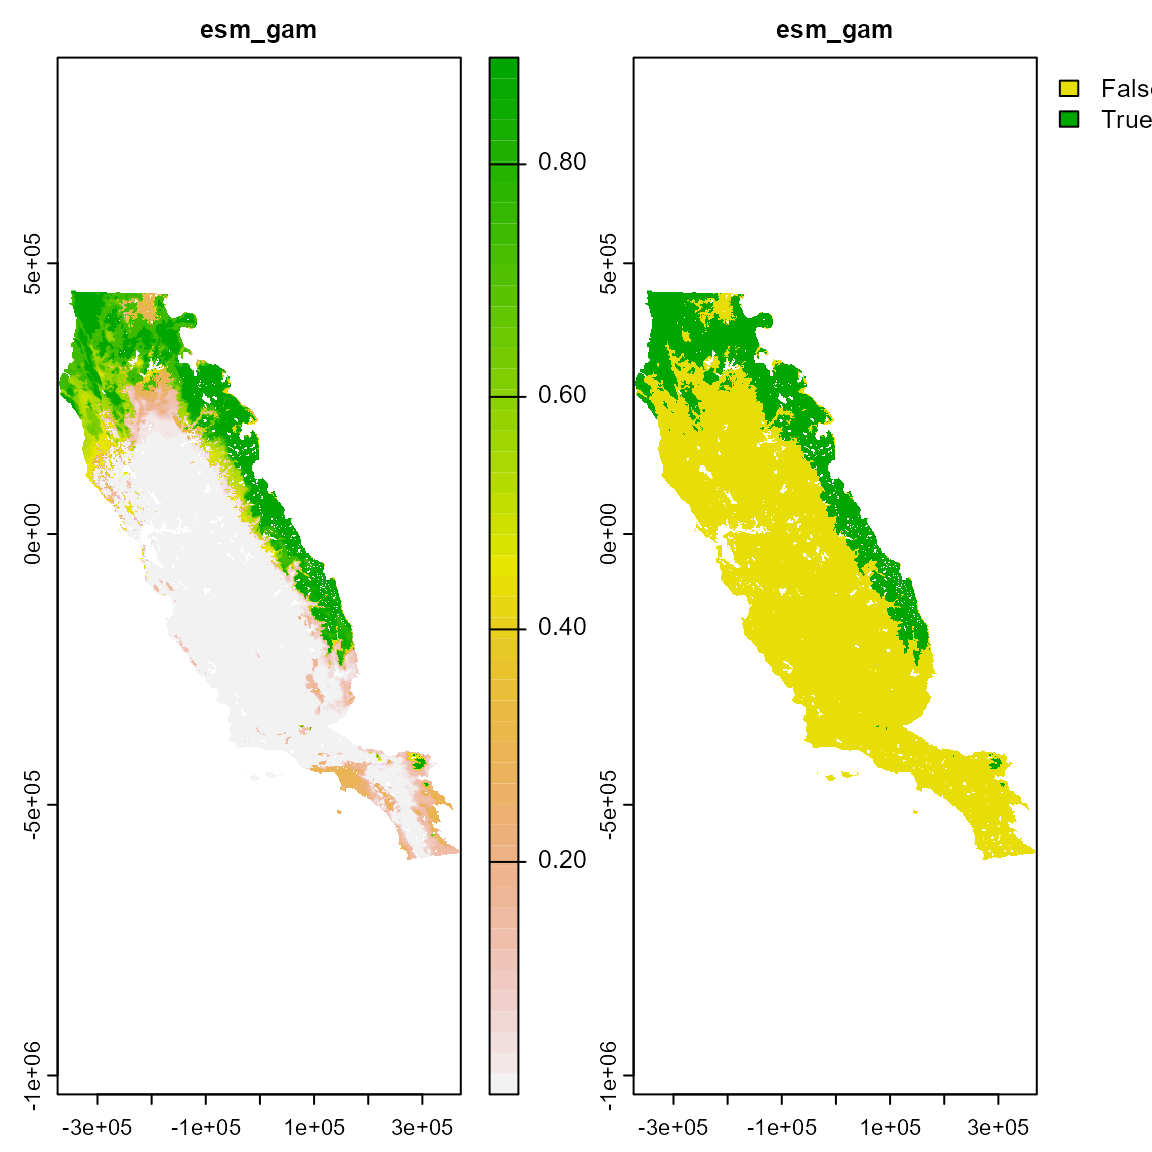
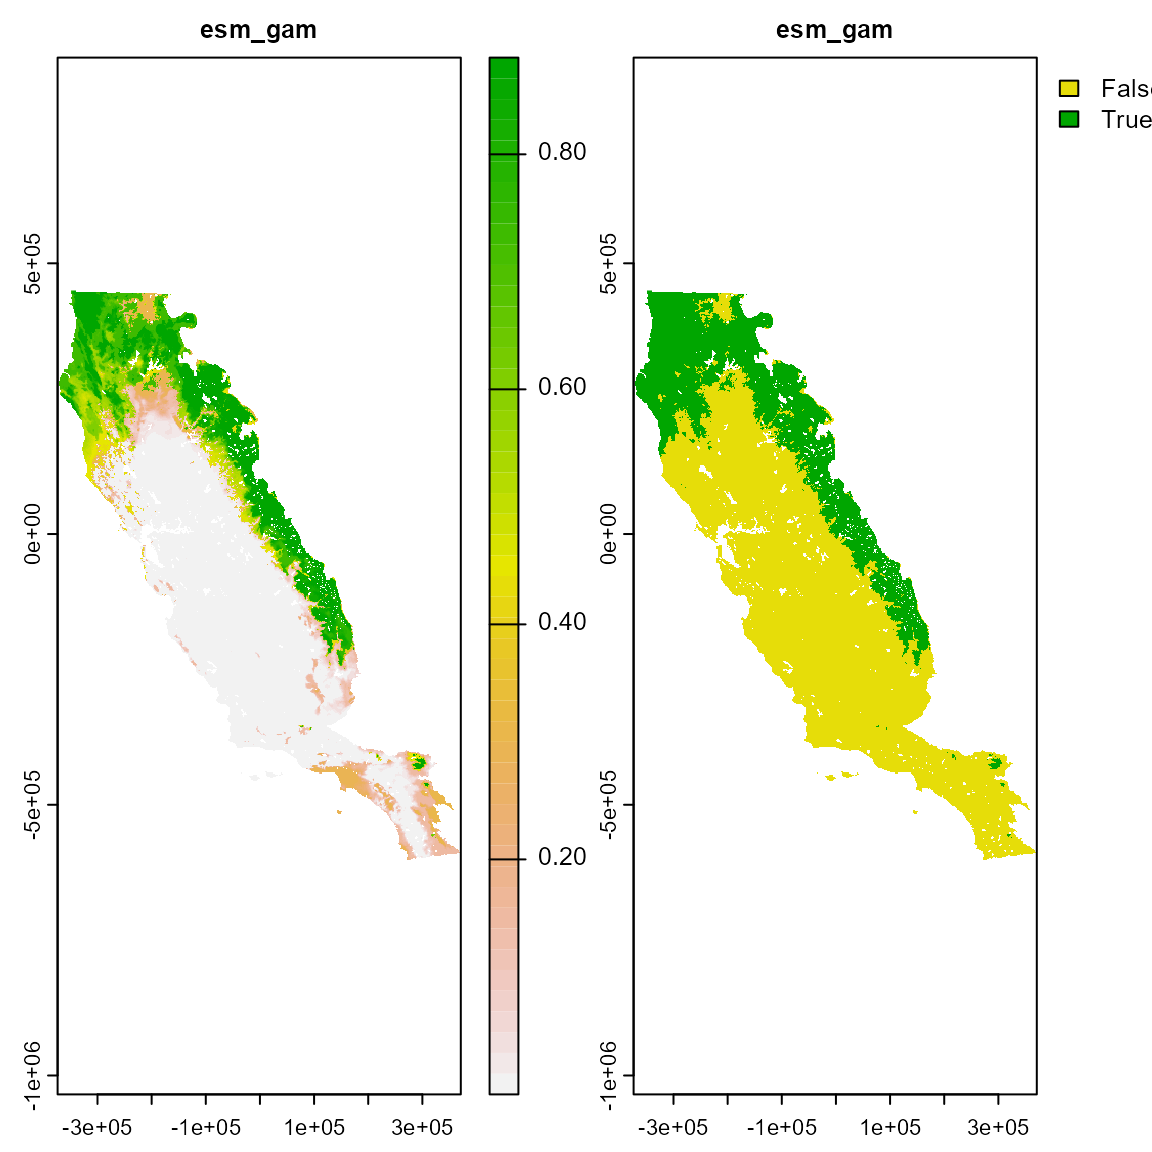
pkg website was updated

diff --git a/docs/articles/v02_modeling.html b/docs/articles/v02_modeling.html
@@ -301,7 +301,7 @@ for presence-absence and for background points datasets.</p>
 <span class="co">#&gt; $ awc      <span style="color: #949494; font-style: italic;">&lt;dbl&gt;</span> 0.10837019, 0.16000000, 0.00000000, 0.09719457, 0.00000000, 0~</span>
 <span class="co">#&gt; $ depth    <span style="color: #949494; font-style: italic;">&lt;dbl&gt;</span> 152.000000, 201.000000, 0.000000, 59.759930, 0.000000, 112.99~</span>
 <span class="co">#&gt; $ landform <span style="color: #949494; font-style: italic;">&lt;fct&gt;</span> 7, 11, 15, 14, 15, 15, 7, 15, 4, 10, 6, 10, 10, 15, 10, 11, 1~</span>
-<span class="co">#&gt; $ .part    <span style="color: #949494; font-style: italic;">&lt;int&gt;</span> 5, 3, 2, 4, 2, 5, 4, 1, 5, 4, 1, 4, 2, 5, 4, 5, 4, 4, 3, 2, 2~</span></code></pre></div>
+<span class="co">#&gt; $ .part    <span style="color: #949494; font-style: italic;">&lt;int&gt;</span> 1, 4, 2, 1, 4, 5, 1, 4, 3, 2, 4, 5, 1, 1, 2, 1, 2, 5, 2, 4, 2~</span></code></pre></div>
 <p>Now, in the abies2 object we have a new column called “.part” with
 the 5 k-folds (1, 2, 3, 4, 5), indicating which partition each record
 (row) is a member of. Next, we have to apply the same partition method
@@ -330,7 +330,7 @@ points.</p>
 <span class="co">#&gt; $ depth        <span style="color: #949494; font-style: italic;">&lt;dbl&gt;</span> 0.00000, 201.00000, 50.07409, 154.39426, 122.39575, 56.17~</span>
 <span class="co">#&gt; $ percent_clay <span style="color: #949494; font-style: italic;">&lt;dbl&gt;</span> 0.0000000, 0.4438345, 18.4111176, 46.9751244, 37.1873169,~</span>
 <span class="co">#&gt; $ landform     <span style="color: #949494; font-style: italic;">&lt;fct&gt;</span> 13, 10, 6, 6, 10, 14, 8, 14, 6, 7, 11, 14, 14, 10, 6, 6, ~</span>
-<span class="co">#&gt; $ .part        <span style="color: #949494; font-style: italic;">&lt;int&gt;</span> 1, 4, 4, 2, 3, 3, 3, 2, 5, 4, 2, 4, 3, 5, 2, 2, 2, 2, 5, ~</span></code></pre></div>
+<span class="co">#&gt; $ .part        <span style="color: #949494; font-style: italic;">&lt;int&gt;</span> 3, 3, 2, 4, 3, 1, 3, 4, 3, 3, 2, 2, 2, 5, 1, 1, 1, 4, 2, ~</span></code></pre></div>
 <p>In backg2 object we have a new column called “.part” with the 5
 k-folds (1, 2, 3, 4, 5).</p>
 <div class="section level3">
@@ -395,9 +395,9 @@ qualitative (f column names) variables use for modeling.</p>
 <span class="co">#&gt; <span style="color: #949494;"># A tibble: 3 x 25</span></span>
 <span class="co">#&gt;   model threshold      thr_value n_presences n_absences TPR_mean TPR_sd TNR_mean</span>
 <span class="co">#&gt;   <span style="color: #949494; font-style: italic;">&lt;chr&gt;</span> <span style="color: #949494; font-style: italic;">&lt;chr&gt;</span>              <span style="color: #949494; font-style: italic;">&lt;dbl&gt;</span>       <span style="color: #949494; font-style: italic;">&lt;int&gt;</span>      <span style="color: #949494; font-style: italic;">&lt;int&gt;</span>    <span style="color: #949494; font-style: italic;">&lt;dbl&gt;</span>  <span style="color: #949494; font-style: italic;">&lt;dbl&gt;</span>    <span style="color: #949494; font-style: italic;">&lt;dbl&gt;</span></span>
-<span class="co">#&gt; <span style="color: #BCBCBC;">1</span> max   equal_sens_sp~     0.590         700        700    0.664 0.035<span style="text-decoration: underline;">4</span>    0.664</span>
-<span class="co">#&gt; <span style="color: #BCBCBC;">2</span> max   max_sens_spec      0.564         700        700    0.87  0.031<span style="text-decoration: underline;">3</span>    0.543</span>
-<span class="co">#&gt; <span style="color: #BCBCBC;">3</span> max   max_sorensen       0.529         700        700    0.93  0.045<span style="text-decoration: underline;">6</span>    0.467</span>
+<span class="co">#&gt; <span style="color: #BCBCBC;">1</span> max   equal_sens_sp~     0.590         700        700    0.671 0.028<span style="text-decoration: underline;">6</span>    0.671</span>
+<span class="co">#&gt; <span style="color: #BCBCBC;">2</span> max   max_sens_spec      0.564         700        700    0.844 0.112     0.579</span>
+<span class="co">#&gt; <span style="color: #BCBCBC;">3</span> max   max_sorensen       0.529         700        700    0.923 0.034<span style="text-decoration: underline;">0</span>    0.487</span>
 <span class="co">#&gt; <span style="color: #949494;"># ... with 17 more variables: TNR_sd &lt;dbl&gt;, SORENSEN_mean &lt;dbl&gt;,</span></span>
 <span class="co">#&gt; <span style="color: #949494;">#   SORENSEN_sd &lt;dbl&gt;, JACCARD_mean &lt;dbl&gt;, JACCARD_sd &lt;dbl&gt;, FPB_mean &lt;dbl&gt;,</span></span>
 <span class="co">#&gt; <span style="color: #949494;">#   FPB_sd &lt;dbl&gt;, OR_mean &lt;dbl&gt;, OR_sd &lt;dbl&gt;, TSS_mean &lt;dbl&gt;, TSS_sd &lt;dbl&gt;,</span></span>
@@ -410,18 +410,18 @@ values.</p>
 <div class="sourceCode" id="cb9"><pre class="downlit sourceCode r">
 <code class="sourceCode R"><span class="va">max_t1</span><span class="op">$</span><span class="va">data_ens</span>
 <span class="co">#&gt; <span style="color: #949494;"># A tibble: 1,400 x 5</span></span>
-<span class="co">#&gt;    rnames replicates part  pr_ab   pred</span>
-<span class="co">#&gt;    <span style="color: #949494; font-style: italic;">&lt;chr&gt;</span>  <span style="color: #949494; font-style: italic;">&lt;chr&gt;</span>      <span style="color: #949494; font-style: italic;">&lt;chr&gt;</span> <span style="color: #949494; font-style: italic;">&lt;dbl&gt;</span>  <span style="color: #949494; font-style: italic;">&lt;dbl&gt;</span></span>
-<span class="co">#&gt; <span style="color: #BCBCBC;"> 1</span> 8      .part      1         0 0.716 </span>
-<span class="co">#&gt; <span style="color: #BCBCBC;"> 2</span> 11     .part      1         0 0.221 </span>
-<span class="co">#&gt; <span style="color: #BCBCBC;"> 3</span> 31     .part      1         0 0.430 </span>
-<span class="co">#&gt; <span style="color: #BCBCBC;"> 4</span> 37     .part      1         0 0.325 </span>
-<span class="co">#&gt; <span style="color: #BCBCBC;"> 5</span> 38     .part      1         0 0.184 </span>
-<span class="co">#&gt; <span style="color: #BCBCBC;"> 6</span> 46     .part      1         0 0.808 </span>
-<span class="co">#&gt; <span style="color: #BCBCBC;"> 7</span> 51     .part      1         0 0.017<span style="text-decoration: underline;">3</span></span>
-<span class="co">#&gt; <span style="color: #BCBCBC;"> 8</span> 70     .part      1         0 0.138 </span>
-<span class="co">#&gt; <span style="color: #BCBCBC;"> 9</span> 80     .part      1         0 0.350 </span>
-<span class="co">#&gt; <span style="color: #BCBCBC;">10</span> 82     .part      1         0 0.244 </span>
+<span class="co">#&gt;    rnames replicates part  pr_ab    pred</span>
+<span class="co">#&gt;    <span style="color: #949494; font-style: italic;">&lt;chr&gt;</span>  <span style="color: #949494; font-style: italic;">&lt;chr&gt;</span>      <span style="color: #949494; font-style: italic;">&lt;chr&gt;</span> <span style="color: #949494; font-style: italic;">&lt;dbl&gt;</span>   <span style="color: #949494; font-style: italic;">&lt;dbl&gt;</span></span>
+<span class="co">#&gt; <span style="color: #BCBCBC;"> 1</span> 1      .part      1         0 0.671  </span>
+<span class="co">#&gt; <span style="color: #BCBCBC;"> 2</span> 4      .part      1         0 0.007<span style="text-decoration: underline;">92</span></span>
+<span class="co">#&gt; <span style="color: #BCBCBC;"> 3</span> 7      .part      1         0 0.144  </span>
+<span class="co">#&gt; <span style="color: #BCBCBC;"> 4</span> 13     .part      1         0 0.055<span style="text-decoration: underline;">4</span> </span>
+<span class="co">#&gt; <span style="color: #BCBCBC;"> 5</span> 14     .part      1         0 0.431  </span>
+<span class="co">#&gt; <span style="color: #BCBCBC;"> 6</span> 16     .part      1         0 0.246  </span>
+<span class="co">#&gt; <span style="color: #BCBCBC;"> 7</span> 22     .part      1         0 0.246  </span>
+<span class="co">#&gt; <span style="color: #BCBCBC;"> 8</span> 25     .part      1         0 0.814  </span>
+<span class="co">#&gt; <span style="color: #BCBCBC;"> 9</span> 28     .part      1         0 0.461  </span>
+<span class="co">#&gt; <span style="color: #BCBCBC;">10</span> 35     .part      1         0 0.487  </span>
 <span class="co">#&gt; <span style="color: #949494;"># ... with 1,390 more rows</span></span></code></pre></div>
 <p>Predicted suitability and test partition for each observation
 (row).</p>
@@ -471,13 +471,13 @@ list object with the following elements:</p>
 <span class="co">#&gt;  randomForest(formula = formula1, data = data, mtry = mtry, ntree = 500,      importance = FALSE, ) </span>
 <span class="co">#&gt;                Type of random forest: classification</span>
 <span class="co">#&gt;                      Number of trees: 500</span>
-<span class="co">#&gt; No. of variables tried at each split: 2</span>
+<span class="co">#&gt; No. of variables tried at each split: 1</span>
 <span class="co">#&gt; </span>
-<span class="co">#&gt;         OOB estimate of  error rate: 11.07%</span>
+<span class="co">#&gt;         OOB estimate of  error rate: 11.64%</span>
 <span class="co">#&gt; Confusion matrix:</span>
 <span class="co">#&gt;     0   1 class.error</span>
-<span class="co">#&gt; 0 603  97  0.13857143</span>
-<span class="co">#&gt; 1  58 642  0.08285714</span></code></pre></div>
+<span class="co">#&gt; 0 588 112  0.16000000</span>
+<span class="co">#&gt; 1  51 649  0.07285714</span></code></pre></div>
 <p>model: A “randomForest” class object. This object can be used to see
 the formula details, a basic summary o fthe model, and for
 predicting.</p>
@@ -494,7 +494,7 @@ qualitative (f column names) variables use for modeling.</p>
 <span class="co">#&gt; <span style="color: #949494;"># A tibble: 1 x 26</span></span>
 <span class="co">#&gt;    mtry model threshold     thr_value n_presences n_absences TPR_mean TPR_sd</span>
 <span class="co">#&gt;   <span style="color: #949494; font-style: italic;">&lt;dbl&gt;</span> <span style="color: #949494; font-style: italic;">&lt;chr&gt;</span> <span style="color: #949494; font-style: italic;">&lt;chr&gt;</span>             <span style="color: #949494; font-style: italic;">&lt;dbl&gt;</span>       <span style="color: #949494; font-style: italic;">&lt;int&gt;</span>      <span style="color: #949494; font-style: italic;">&lt;int&gt;</span>    <span style="color: #949494; font-style: italic;">&lt;dbl&gt;</span>  <span style="color: #949494; font-style: italic;">&lt;dbl&gt;</span></span>
-<span class="co">#&gt; <span style="color: #BCBCBC;">1</span>     2 raf   max_sens_spec      0.51         700        700    0.924 0.021<span style="text-decoration: underline;">8</span></span>
+<span class="co">#&gt; <span style="color: #BCBCBC;">1</span>     1 raf   max_sens_spec     0.606         700        700    0.914 0.033<span style="text-decoration: underline;">5</span></span>
 <span class="co">#&gt; <span style="color: #949494;"># ... with 18 more variables: TNR_mean &lt;dbl&gt;, TNR_sd &lt;dbl&gt;,</span></span>
 <span class="co">#&gt; <span style="color: #949494;">#   SORENSEN_mean &lt;dbl&gt;, SORENSEN_sd &lt;dbl&gt;, JACCARD_mean &lt;dbl&gt;,</span></span>
 <span class="co">#&gt; <span style="color: #949494;">#   JACCARD_sd &lt;dbl&gt;, FPB_mean &lt;dbl&gt;, FPB_sd &lt;dbl&gt;, OR_mean &lt;dbl&gt;, OR_sd &lt;dbl&gt;,</span></span>
@@ -509,16 +509,16 @@ values.</p>
 <span class="co">#&gt; <span style="color: #949494;"># A tibble: 1,400 x 5</span></span>
 <span class="co">#&gt;    rnames replicates part  pr_ab  pred</span>
 <span class="co">#&gt;    <span style="color: #949494; font-style: italic;">&lt;chr&gt;</span>  <span style="color: #949494; font-style: italic;">&lt;chr&gt;</span>      <span style="color: #949494; font-style: italic;">&lt;chr&gt;</span> <span style="color: #949494; font-style: italic;">&lt;fct&gt;</span> <span style="color: #949494; font-style: italic;">&lt;dbl&gt;</span></span>
-<span class="co">#&gt; <span style="color: #BCBCBC;"> 1</span> 8      .part      1     0     0.11 </span>
-<span class="co">#&gt; <span style="color: #BCBCBC;"> 2</span> 11     .part      1     0     0.14 </span>
-<span class="co">#&gt; <span style="color: #BCBCBC;"> 3</span> 31     .part      1     0     0.21 </span>
-<span class="co">#&gt; <span style="color: #BCBCBC;"> 4</span> 37     .part      1     0     0.062</span>
-<span class="co">#&gt; <span style="color: #BCBCBC;"> 5</span> 38     .part      1     0     0.158</span>
-<span class="co">#&gt; <span style="color: #BCBCBC;"> 6</span> 46     .part      1     0     0.044</span>
-<span class="co">#&gt; <span style="color: #BCBCBC;"> 7</span> 51     .part      1     0     0.226</span>
-<span class="co">#&gt; <span style="color: #BCBCBC;"> 8</span> 70     .part      1     0     0.008</span>
-<span class="co">#&gt; <span style="color: #BCBCBC;"> 9</span> 80     .part      1     0     0.126</span>
-<span class="co">#&gt; <span style="color: #BCBCBC;">10</span> 82     .part      1     0     0.064</span>
+<span class="co">#&gt; <span style="color: #BCBCBC;"> 1</span> 1      .part      1     0     0.332</span>
+<span class="co">#&gt; <span style="color: #BCBCBC;"> 2</span> 4      .part      1     0     0.012</span>
+<span class="co">#&gt; <span style="color: #BCBCBC;"> 3</span> 7      .part      1     0     0.026</span>
+<span class="co">#&gt; <span style="color: #BCBCBC;"> 4</span> 13     .part      1     0     0.036</span>
+<span class="co">#&gt; <span style="color: #BCBCBC;"> 5</span> 14     .part      1     0     0.228</span>
+<span class="co">#&gt; <span style="color: #BCBCBC;"> 6</span> 16     .part      1     0     0.054</span>
+<span class="co">#&gt; <span style="color: #BCBCBC;"> 7</span> 22     .part      1     0     0.018</span>
+<span class="co">#&gt; <span style="color: #BCBCBC;"> 8</span> 25     .part      1     0     0.184</span>
+<span class="co">#&gt; <span style="color: #BCBCBC;"> 9</span> 28     .part      1     0     0.046</span>
+<span class="co">#&gt; <span style="color: #BCBCBC;">10</span> 35     .part      1     0     0.148</span>
 <span class="co">#&gt; <span style="color: #949494;"># ... with 1,390 more rows</span></span></code></pre></div>
 <p>Predicted suitability and test partition for each observation
 (row).</p>

diff --git a/docs/index.html b/docs/index.html
@@ -385,6 +385,8 @@ e-mail to <a href="mailto:sjevelazco@gmail.com" class="email">sjevelazco@gmail.c
 <li><a href="http://www.gnu.org/licenses/gpl-3.0.html" class="external-link"><img src="https://img.shields.io/badge/license-GPL%20%28%3E=%203%29-lightgrey.svg?style=flat" alt="License"></a></li>
 <li><a href="https://github.com/sjevelazco/flexsdm/actions/workflows/R-CMD-check.yaml" class="external-link"><img src="https://github.com/sjevelazco/flexsdm/actions/workflows/R-CMD-check.yaml/badge.svg" alt="R-CMD-check"></a></li>
 <li><a href="https://codecov.io/gh/sjevelazco/flexsdm" class="external-link"><img src="https://codecov.io/gh/sjevelazco/flexsdm/branch/main/graph/badge.svg?token=UT1UB0TWSV" alt="Codecov test coverage"></a></li>
+<li><a href="https://zenodo.org/badge/latestdoi/354032642" class="external-link"><img src="https://zenodo.org/badge/354032642.svg" alt="DOI"></a></li>
+<li><a href="https://doi.org/10.1111/2041-210X.13874" class="external-link"><img src="https://img.shields.io/badge/DOI-10.1111%2F2041--210X.13874-orange" alt="DOI"></a></li>
 </ul>
 </div>
 

diff --git a/docs/articles/v03_post_modeling.html b/docs/articles/v03_post_modeling.html
@@ -501,9 +501,9 @@ and/or binary predictions.</p>
 <span class="co">#&gt; coord. ref. : +proj=aea +lat_0=0 +lon_0=-120 +lat_1=34 +lat_2=40.5 +x_0=0 +y_0=-4000000 +datum=NAD83 +units=m +no_defs </span>
 <span class="co">#&gt; sources     : memory  </span>
 <span class="co">#&gt;               memory  </span>
-<span class="co">#&gt; names       :     esm_gam, max_fpb </span>
-<span class="co">#&gt; min values  : 2.13279e-05,    TRUE </span>
-<span class="co">#&gt; max values  :    0.891835,    TRUE</span>
+<span class="co">#&gt; names       :      esm_gam, max_fpb </span>
+<span class="co">#&gt; min values  : 2.243517e-05,    TRUE </span>
+<span class="co">#&gt; max values  :    0.8823022,    TRUE</span>
 
 <span class="co"># Plot to see this layers</span>
 <span class="va">small_p_rst</span> <span class="op">&lt;-</span> <span class="fu">terra</span><span class="fu">::</span><span class="fu"><a href="https://rdrr.io/pkg/terra/man/rast.html" class="external-link">rast</a></span><span class="op">(</span><span class="va">small_p</span><span class="op">)</span>
